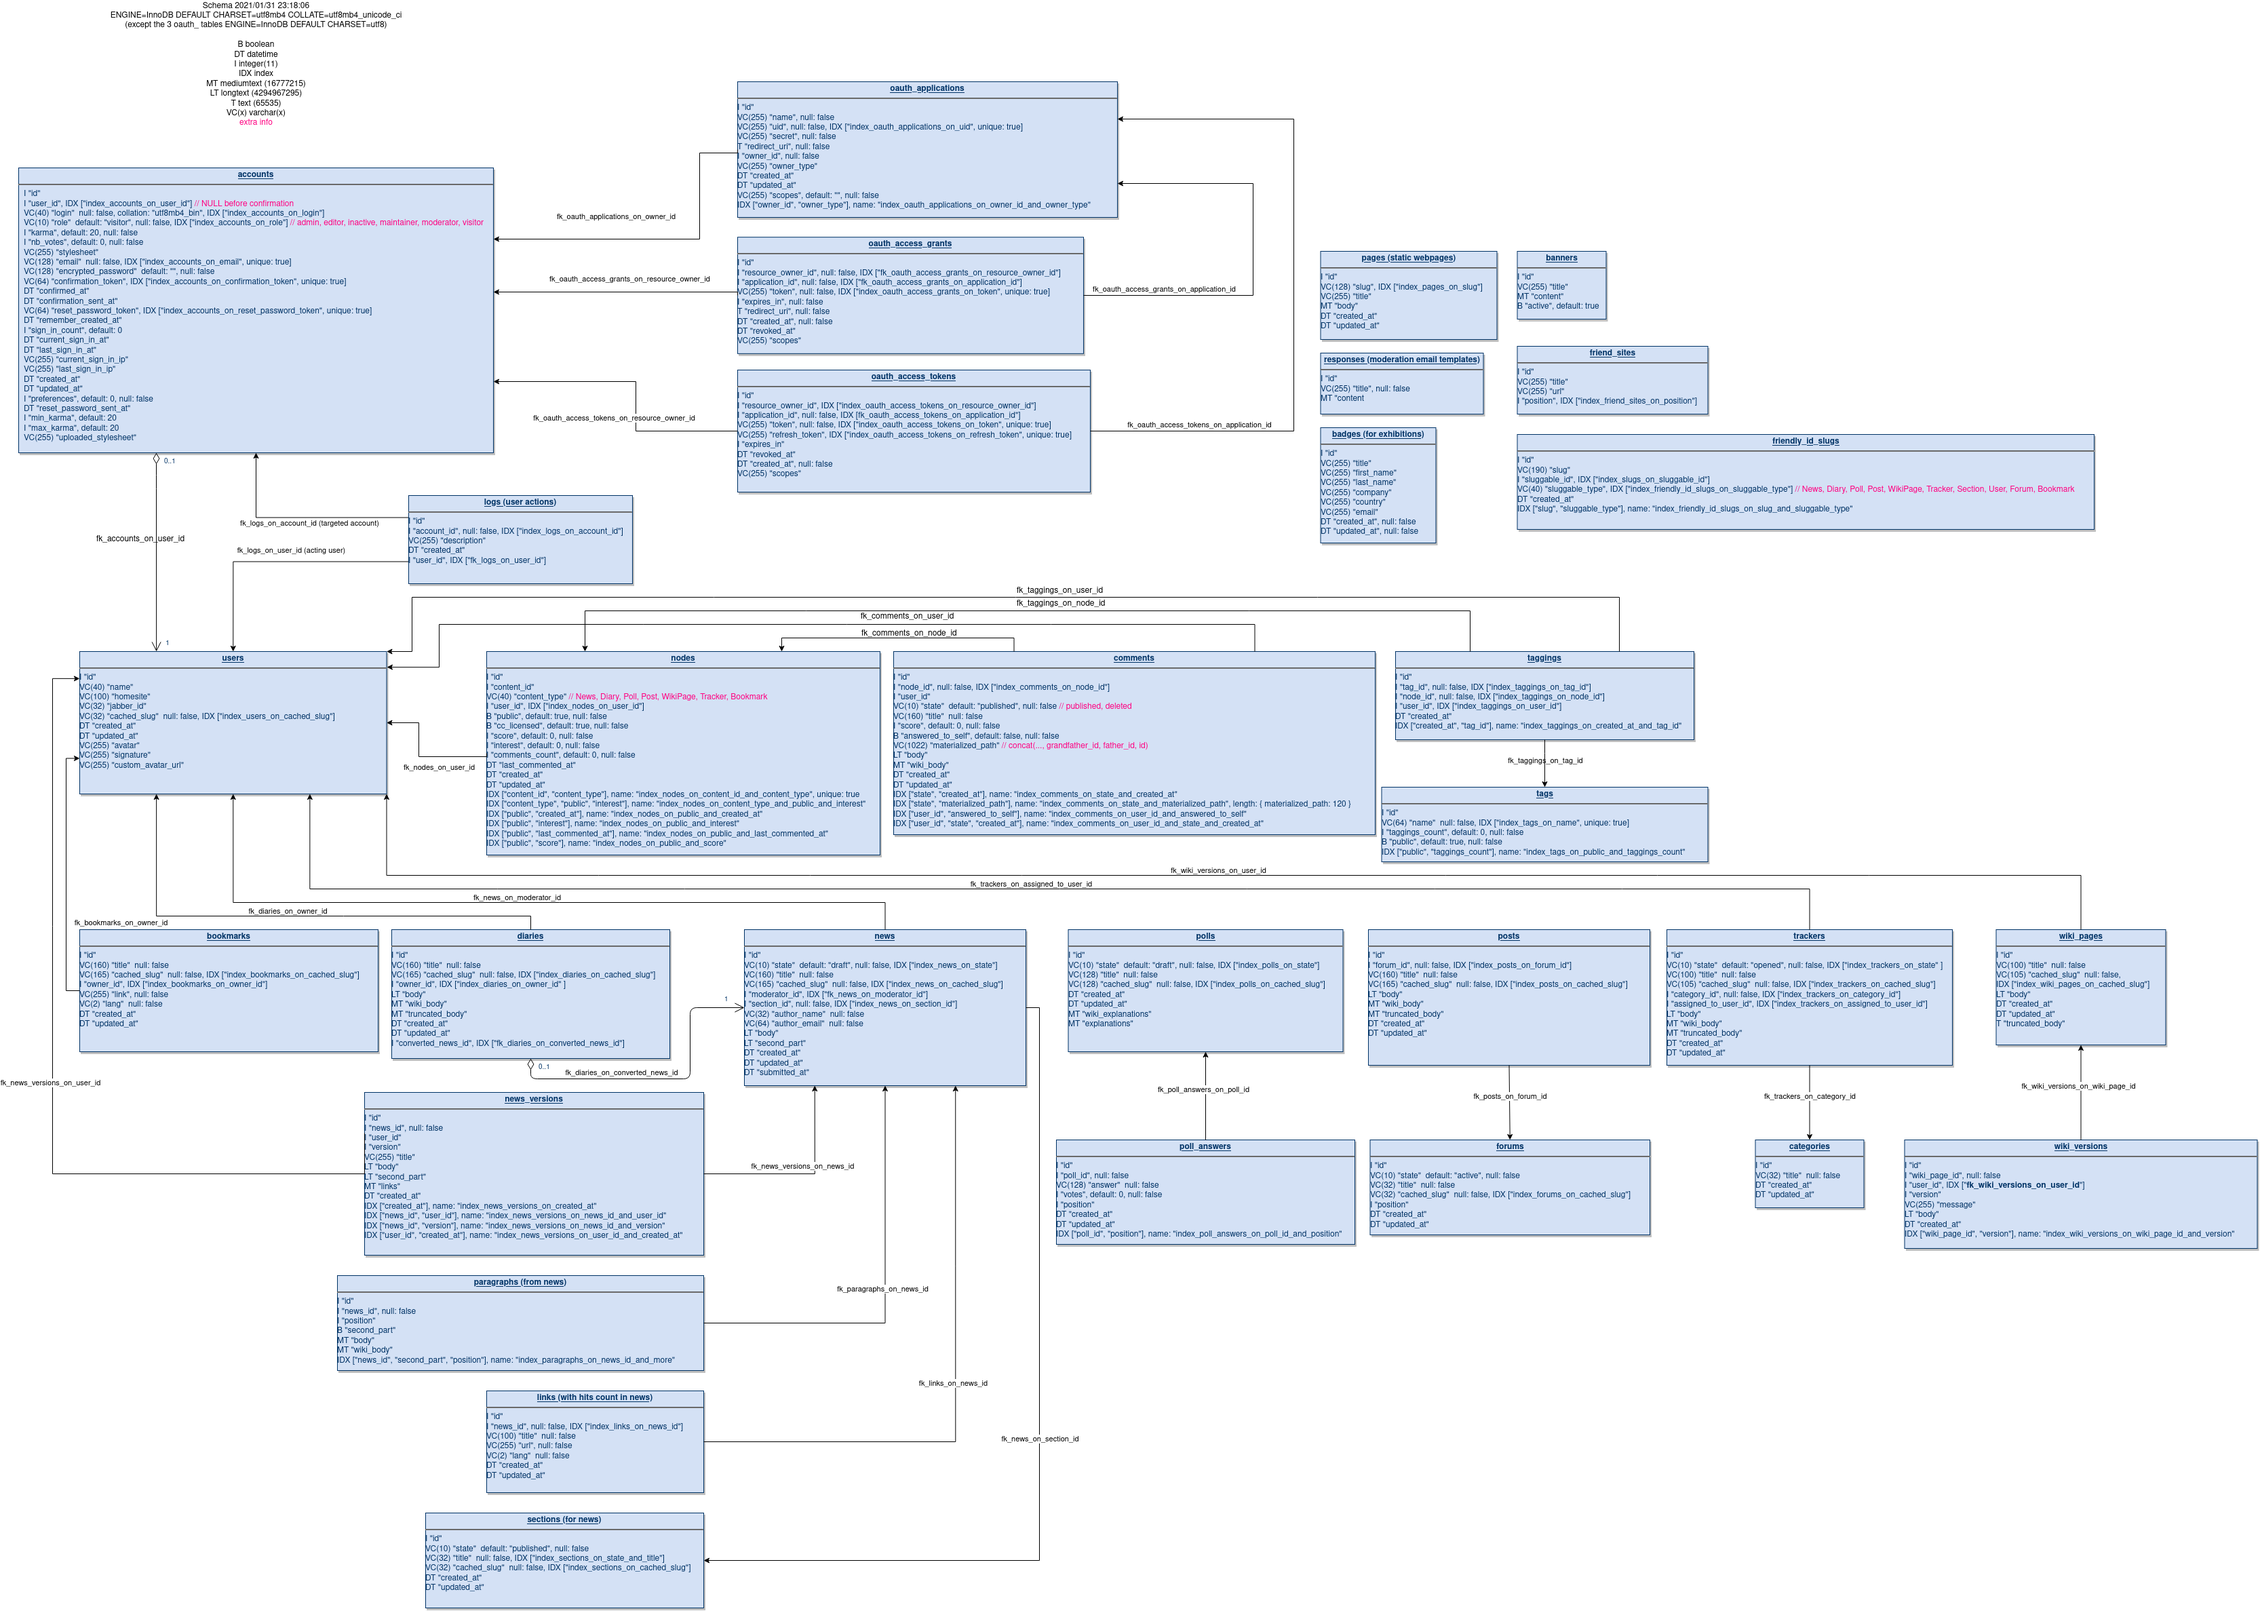
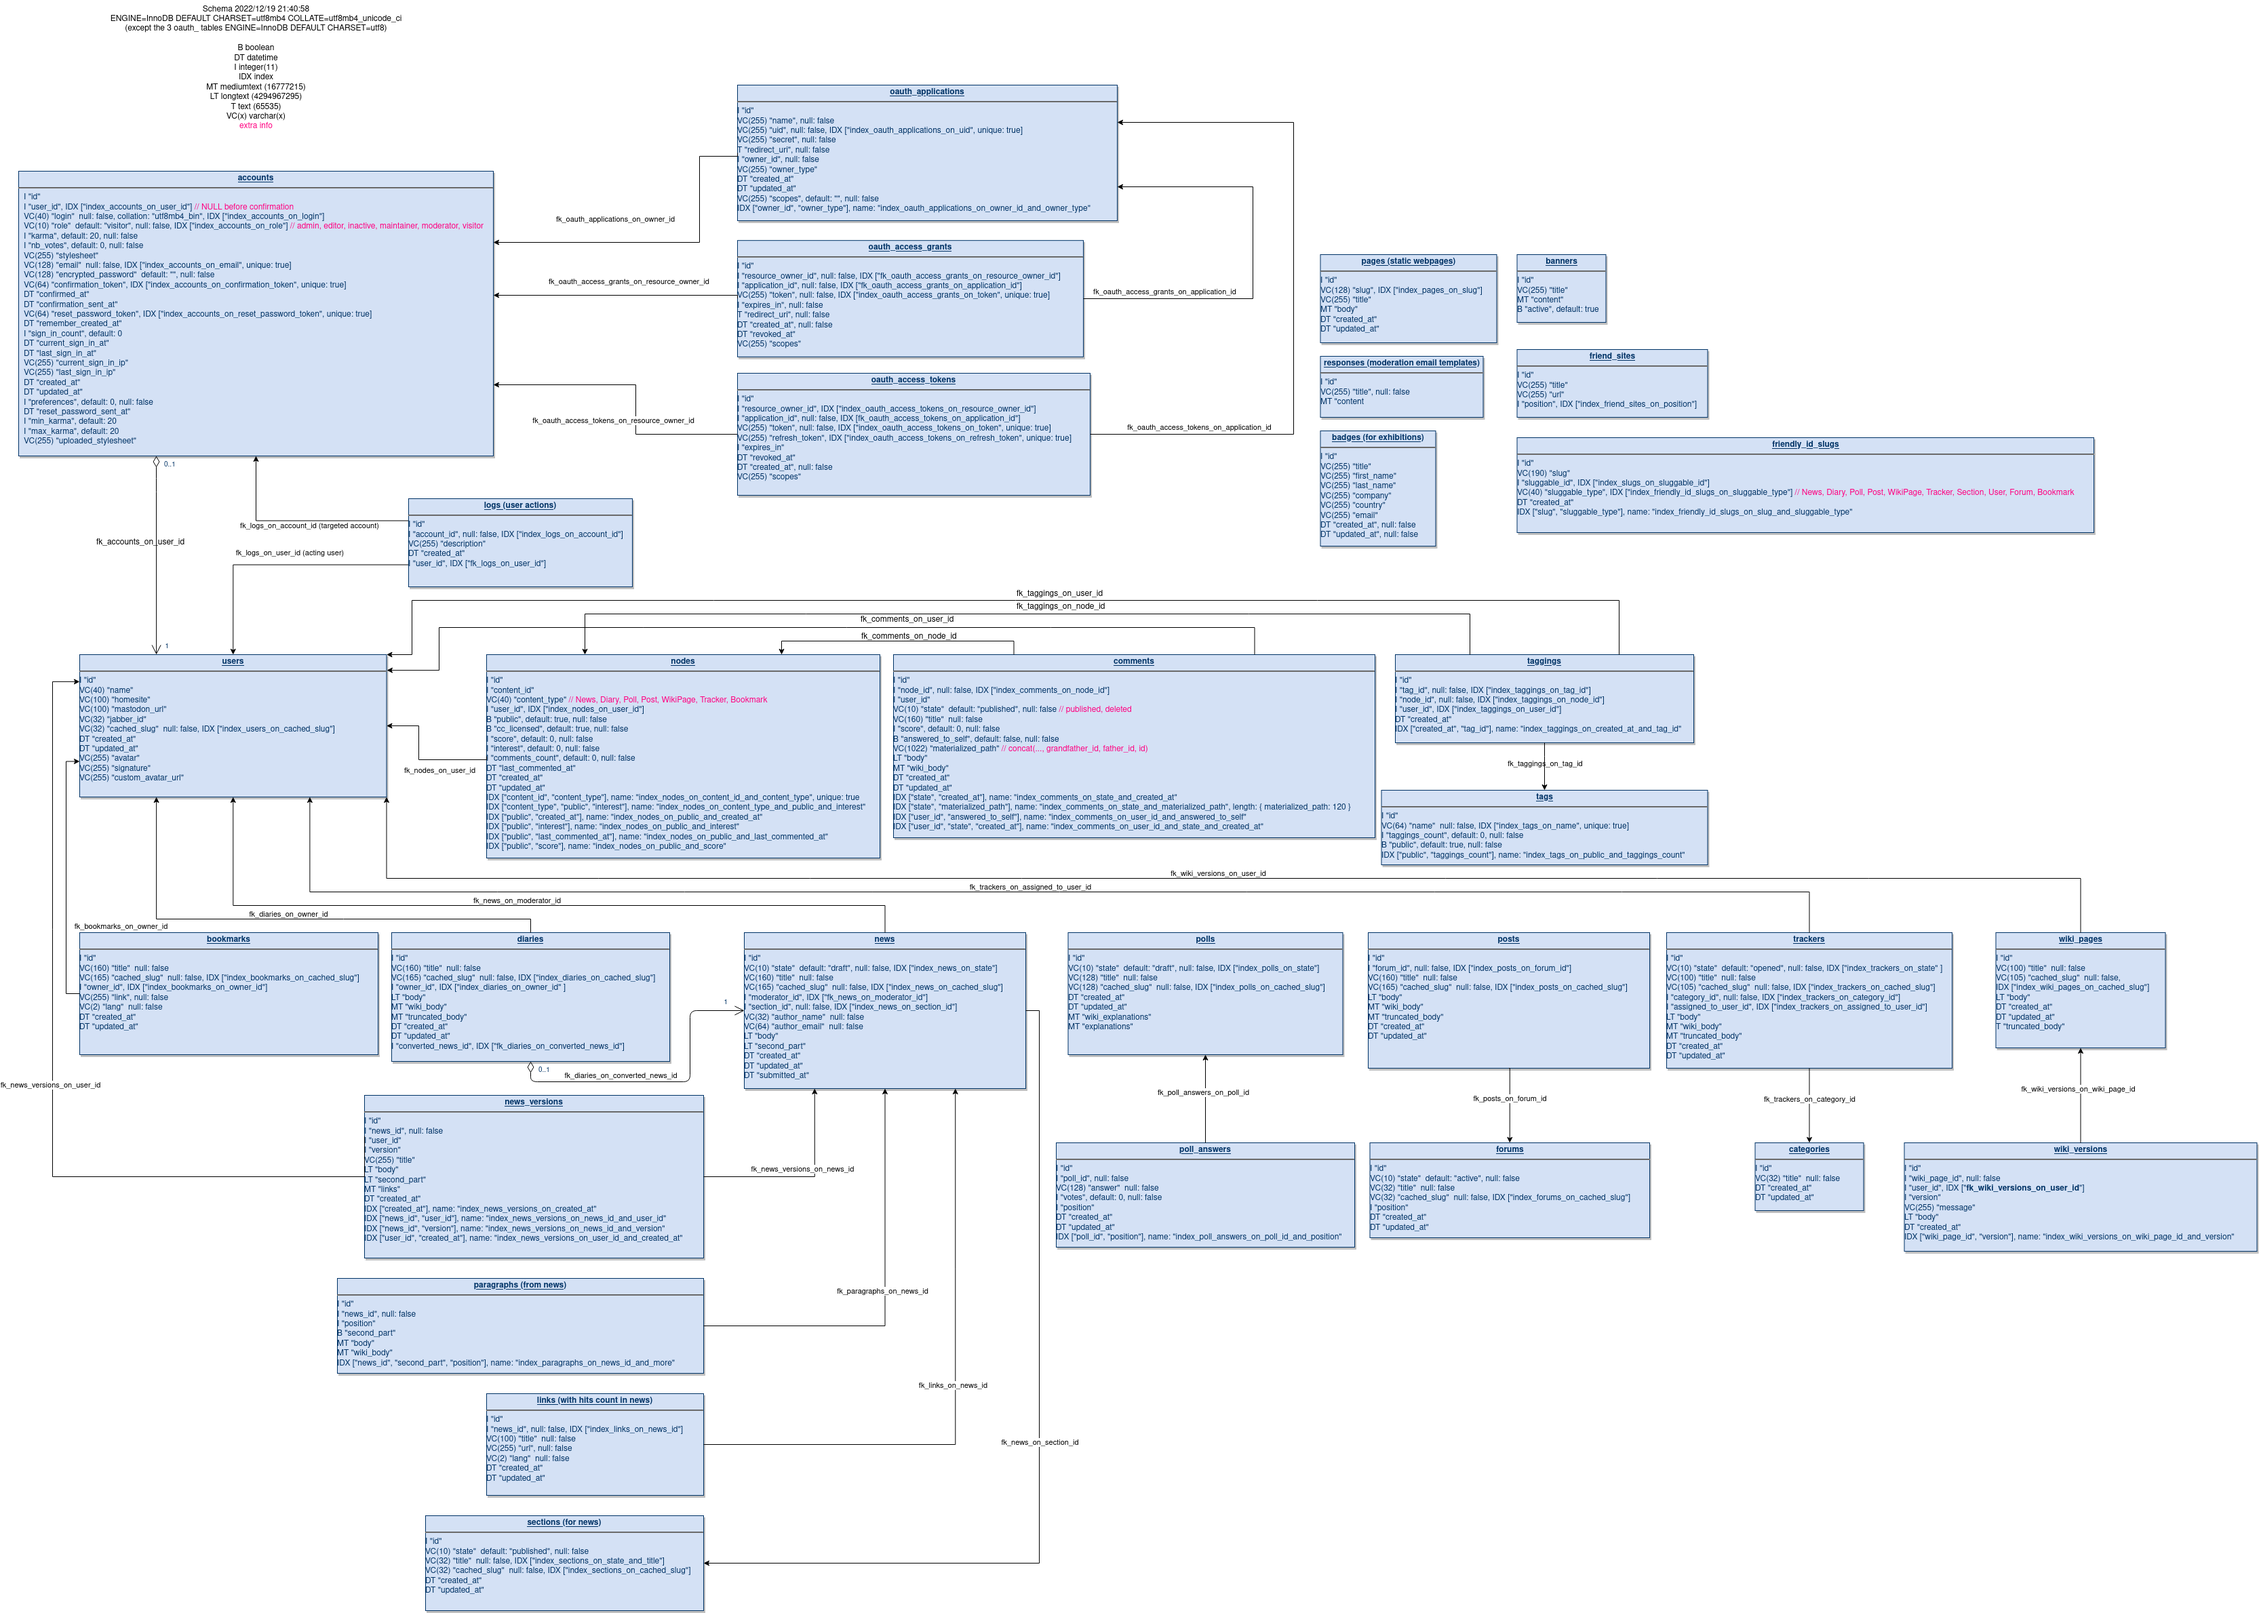
Admin part of new Mastodon URL feature
- Mastodon link displayed only if karma > 0
- Mastodon and URLs removed from inactive accounts
- Same value for maxlength in front and back
- Display Mastodon account on user page and last accounts page
- Update karma help for Mastodon link
- Update SQL DB schema for Mastodon link

diff --git a/db/pages/aide.html b/db/pages/aide.html
@@ -297,7 +297,7 @@ soit les plus récents, soit les suffisamment bien notés et pas trop anciens).
 
 <p>Pour pouvoir écrire un journal, publier un lien ou discuter sur la tribune, il faut avoir un karma supérieur strictement à 0, et pour éditer une page de wiki, il faut un karma strictement supérieur à 20 (sources <a href="https://github.com/linuxfrorg/linuxfr.org/blob/master/app/models/diary.rb">journal</a>, <a href="https://github.com/linuxfrorg/linuxfr.org/blob/master/app/models/bookmark.rb">lien</a>, <a href="https://github.com/linuxfrorg/linuxfr.org/blob/master/app/models/wiki_page.rb">wiki</a> et <a href="https://github.com/linuxfrorg/linuxfr.org/blob/master/app/models/account.rb">tribune</a>).</p>
 
-<p>Pour pouvoir afficher l’adresse de son site personnel, il faut avoir un karma strictement supérieur à 0 (<a href="https://github.com/linuxfrorg/linuxfr.org/blob/master/app/helpers/users_helper.rb">source</a>).</p>
+<p>Pour pouvoir afficher l’adresse de son site personnel ou de son compte Mastodon, il faut avoir un karma strictement supérieur à 0 (<a href="https://github.com/linuxfrorg/linuxfr.org/blob/master/app/helpers/users_helper.rb">source</a>).</p>
 
 
 

diff --git a/app/controllers/admin/accounts_controller.rb b/app/controllers/admin/accounts_controller.rb
@@ -48,7 +48,9 @@ class Admin::AccountsController < AdminController
     else
       @account.inactivate!
       user = @account.user
-      user.homesite = ""
+      user.homesite = nil
+      user.jabber_id = nil
+      user.mastodon_url = nil
       user.save
       Board.amr_notification("Le compte #{@account.login} #{user_url @account.login} a été désactivé par #{current_user.name} #{user_url(current_user)}")
       redirect_back notice: "Compte désactivé", fallback_location: admin_accounts_url
@@ -58,7 +60,9 @@ class Admin::AccountsController < AdminController
   def destroy
     @account.inactivate!
     user = @account.user
-    user.homesite = ""
+    user.homesite = nil
+    user.jabber_id = nil
+    user.mastodon_url = nil
     user.save
     Board.amr_notification("Le compte #{@account.login} #{user_url @account.login} a été désactivé par #{current_user.name} #{user_url(current_user)}")
     redirect_to admin_accounts_url, notice: "Compte désactivé"

diff --git a/app/helpers/users_helper.rb b/app/helpers/users_helper.rb
@@ -42,6 +42,8 @@ module UsersHelper
 
   def mastodon_link(user)
     return if user.mastodon_url.blank?
+    karma = user.account.try(:karma).to_i
+    return unless karma > 0
     link_to("Mastodon", user.mastodon_url)
   end
 end
